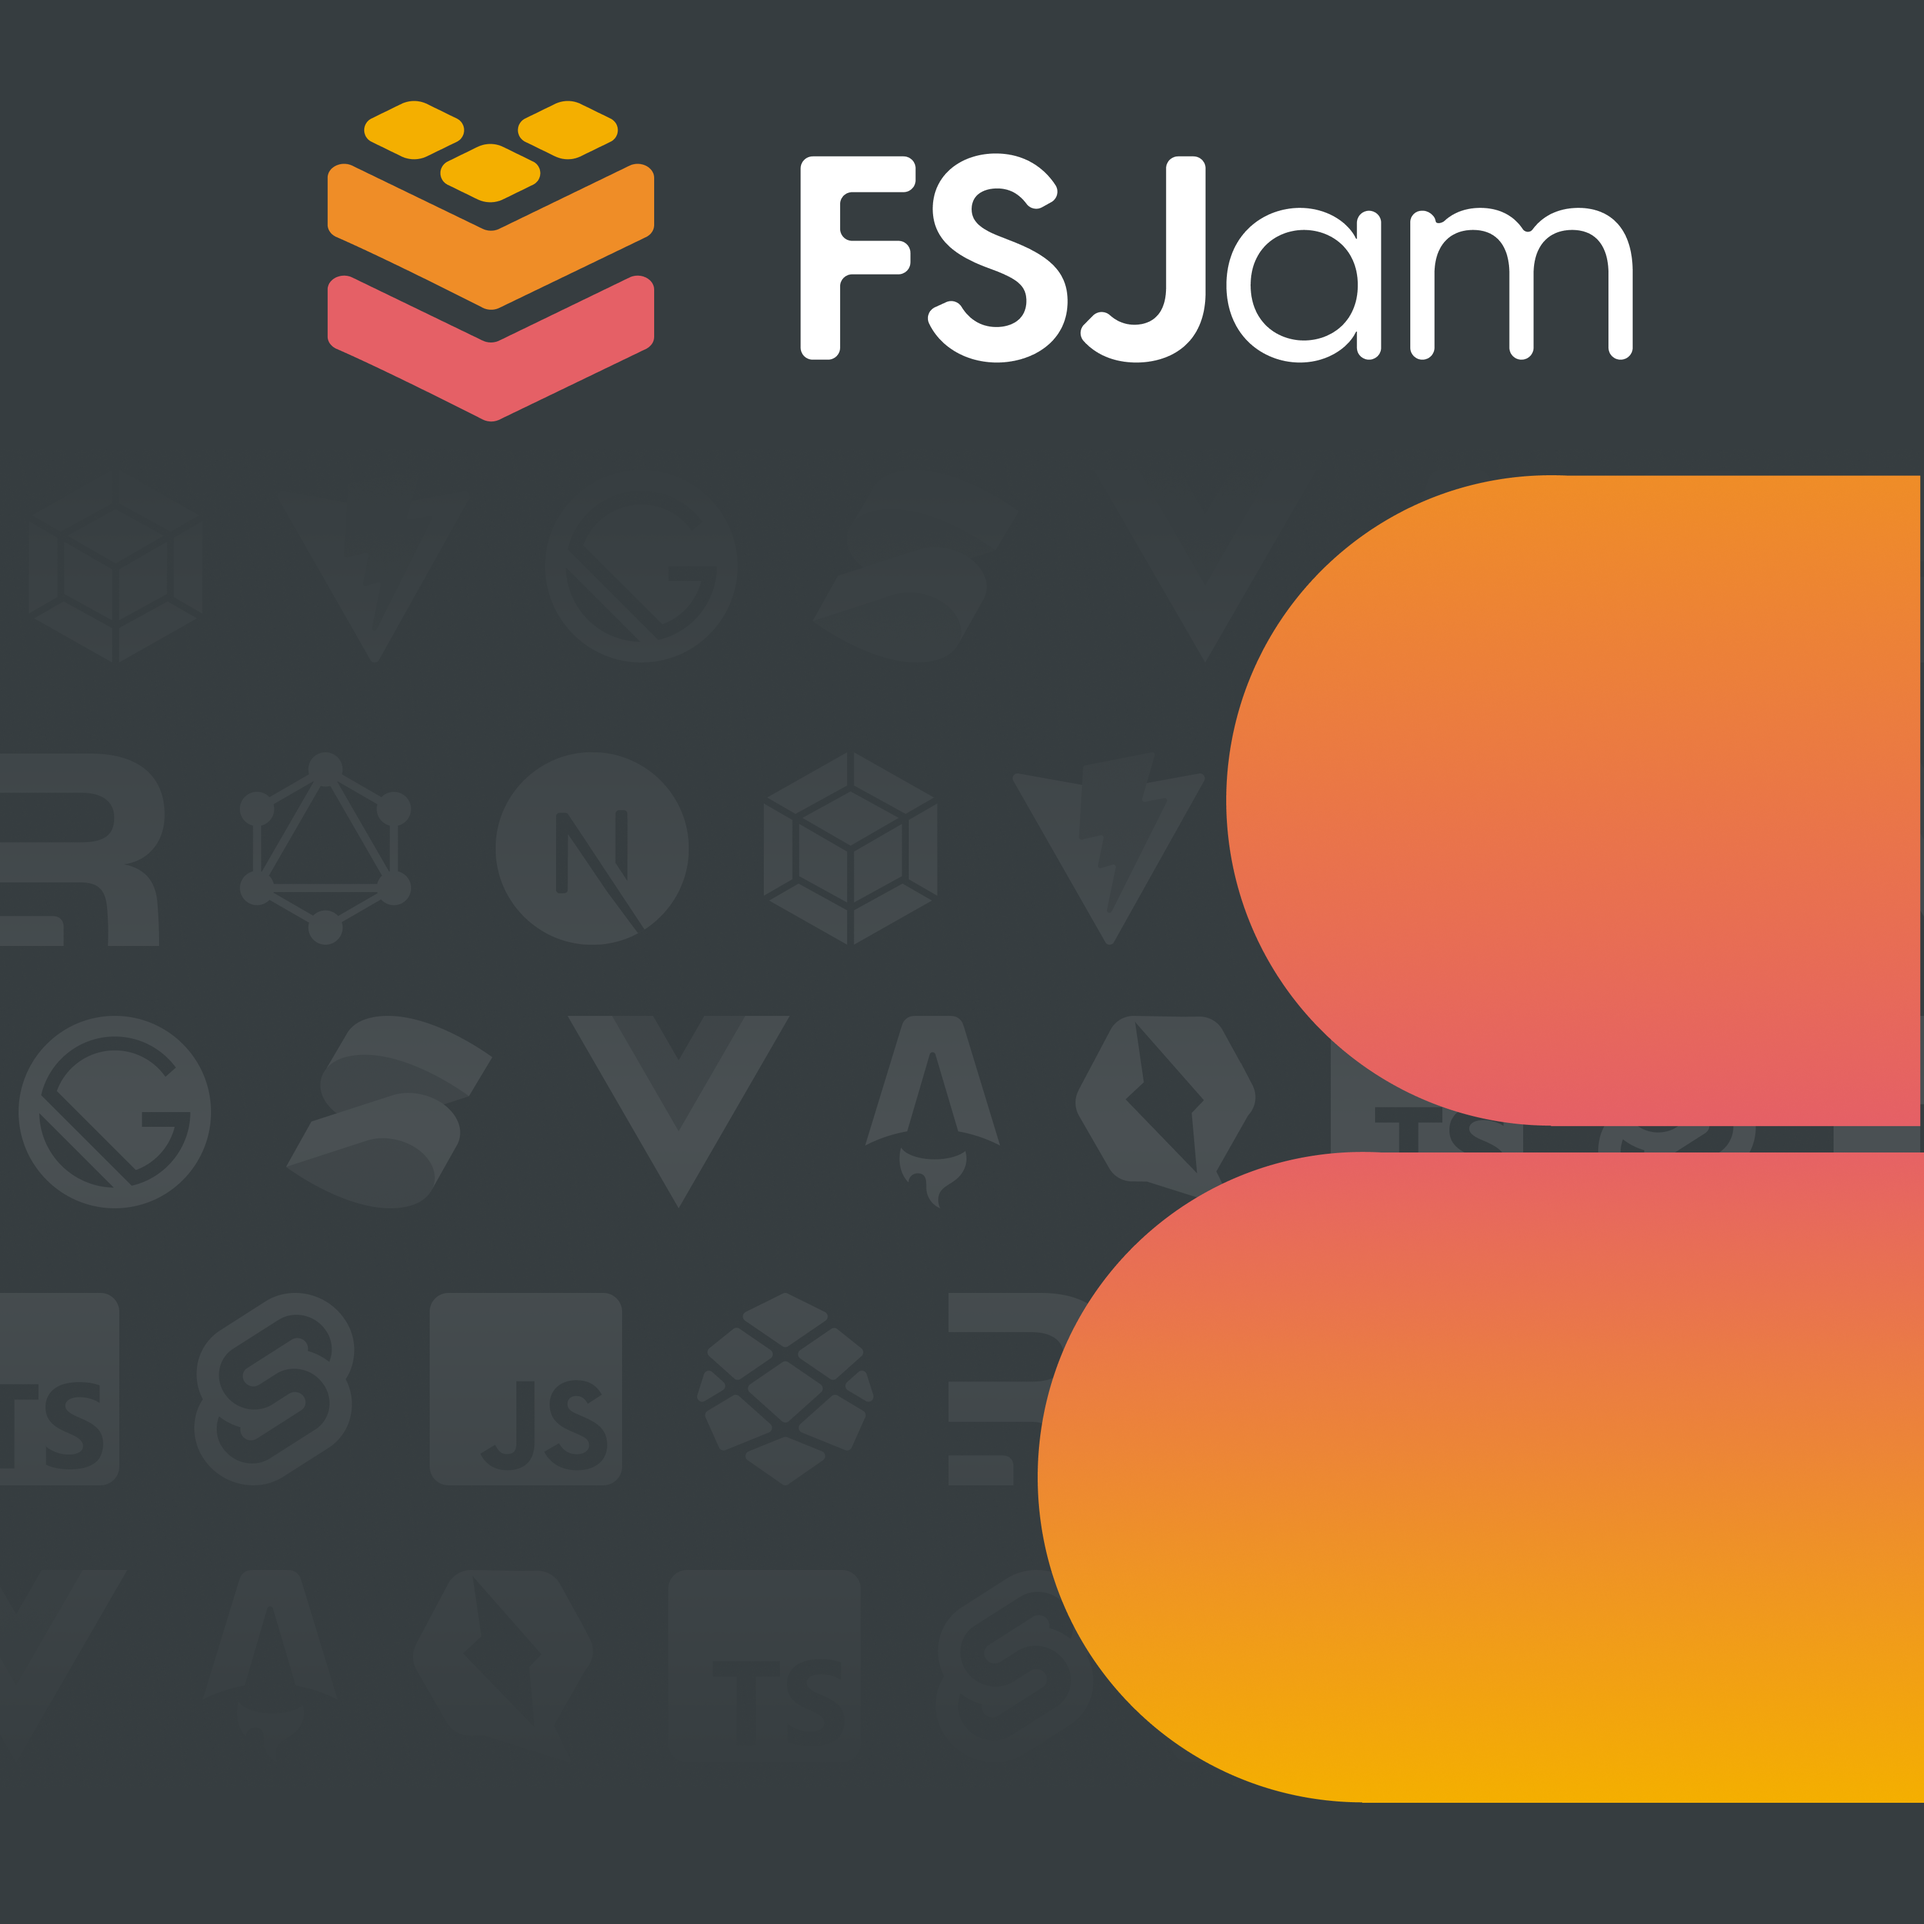
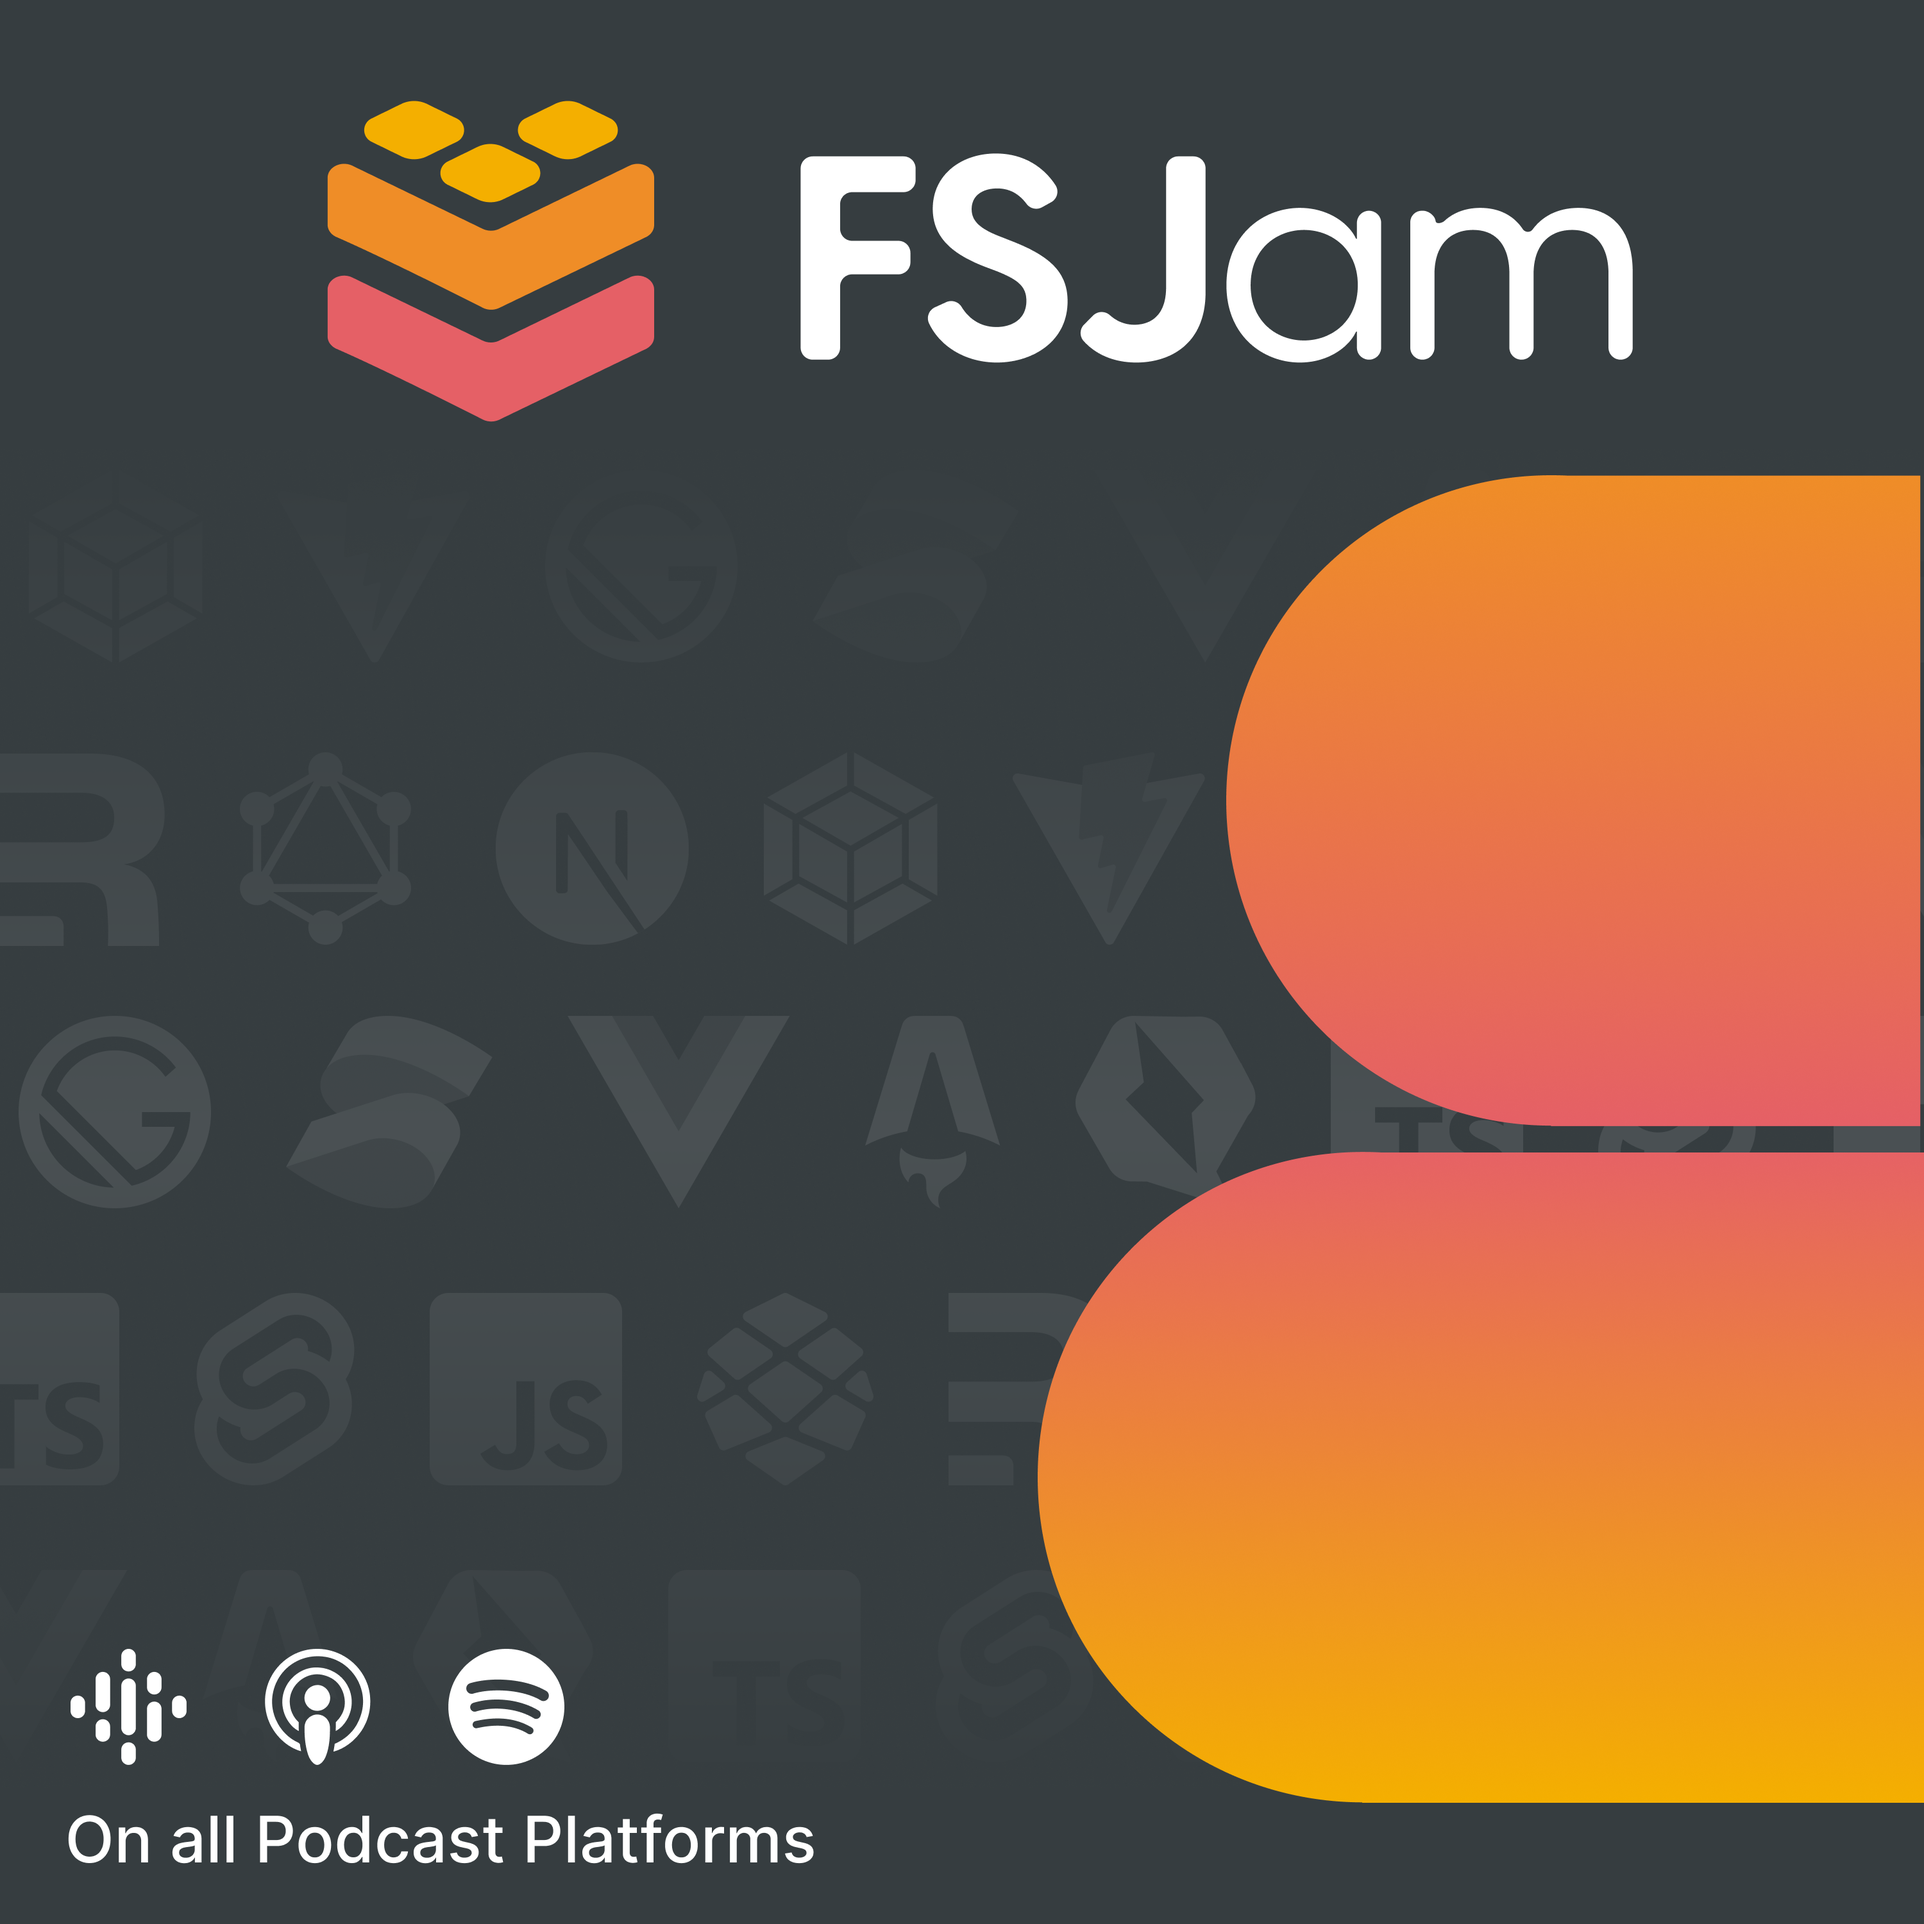
bg image tweaks!

Changed region(s): [[0.031, 0.837, 0.434, 0.992]]

diff --git a/src/frames/Cover1Avatar.tsx b/src/frames/Cover1Avatar.tsx
@@ -31,12 +31,12 @@ const textContainer: React.CSSProperties = {
 	fontFamily,
 	left: '7rem',
 	position: 'absolute',
-	width: '76rem',
+	width: '74rem',
 	textAlign: 'right',
 };
 const imageContainer: React.CSSProperties = {
-	top: 991,
-	left: 1430,
+	top: 972,
+	left: 1434,
 };
 
 const imageStyle: React.CSSProperties = {
